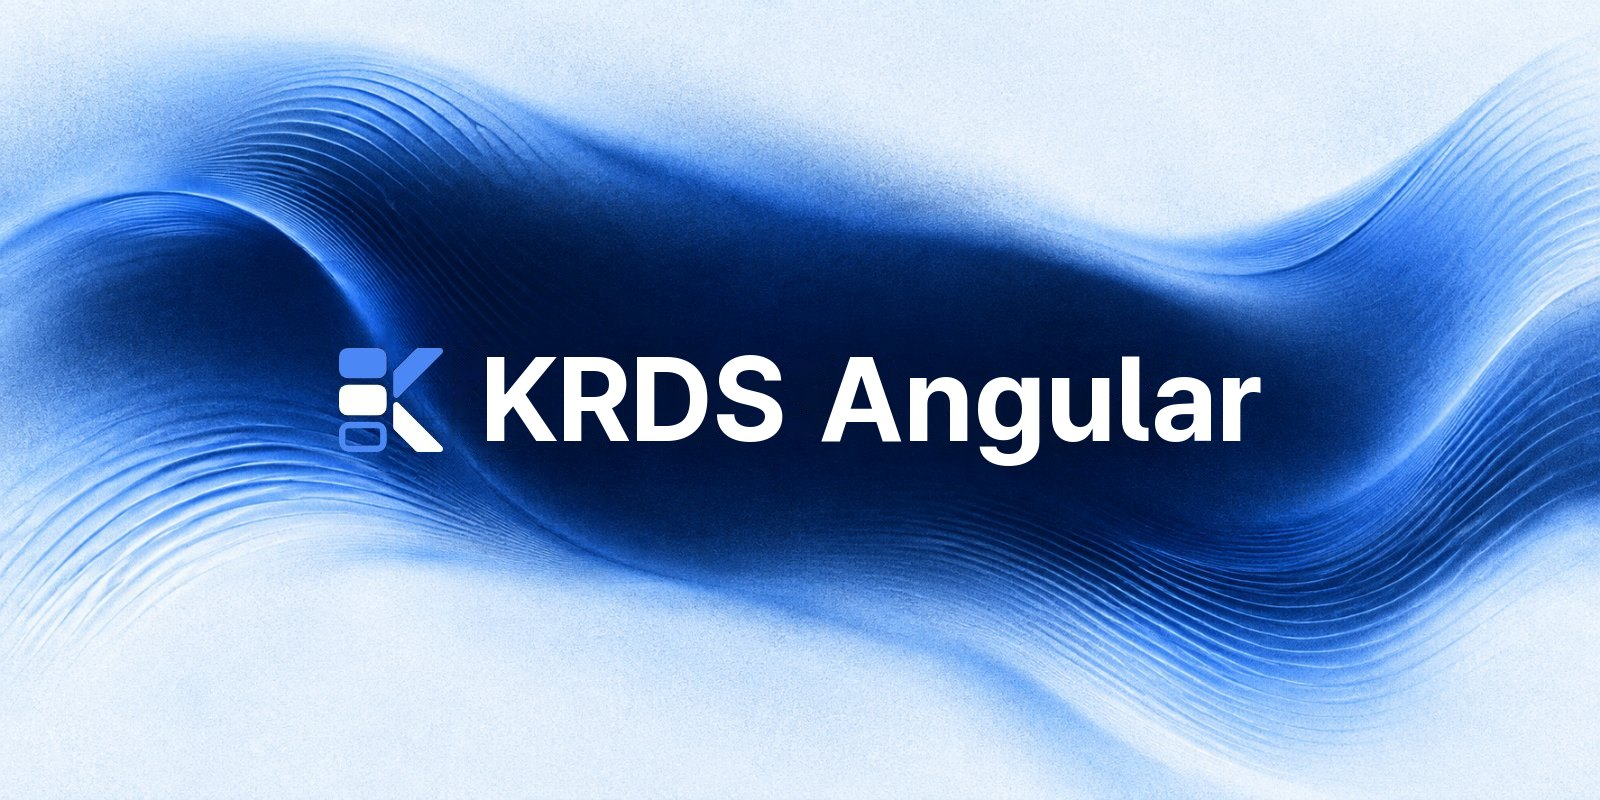
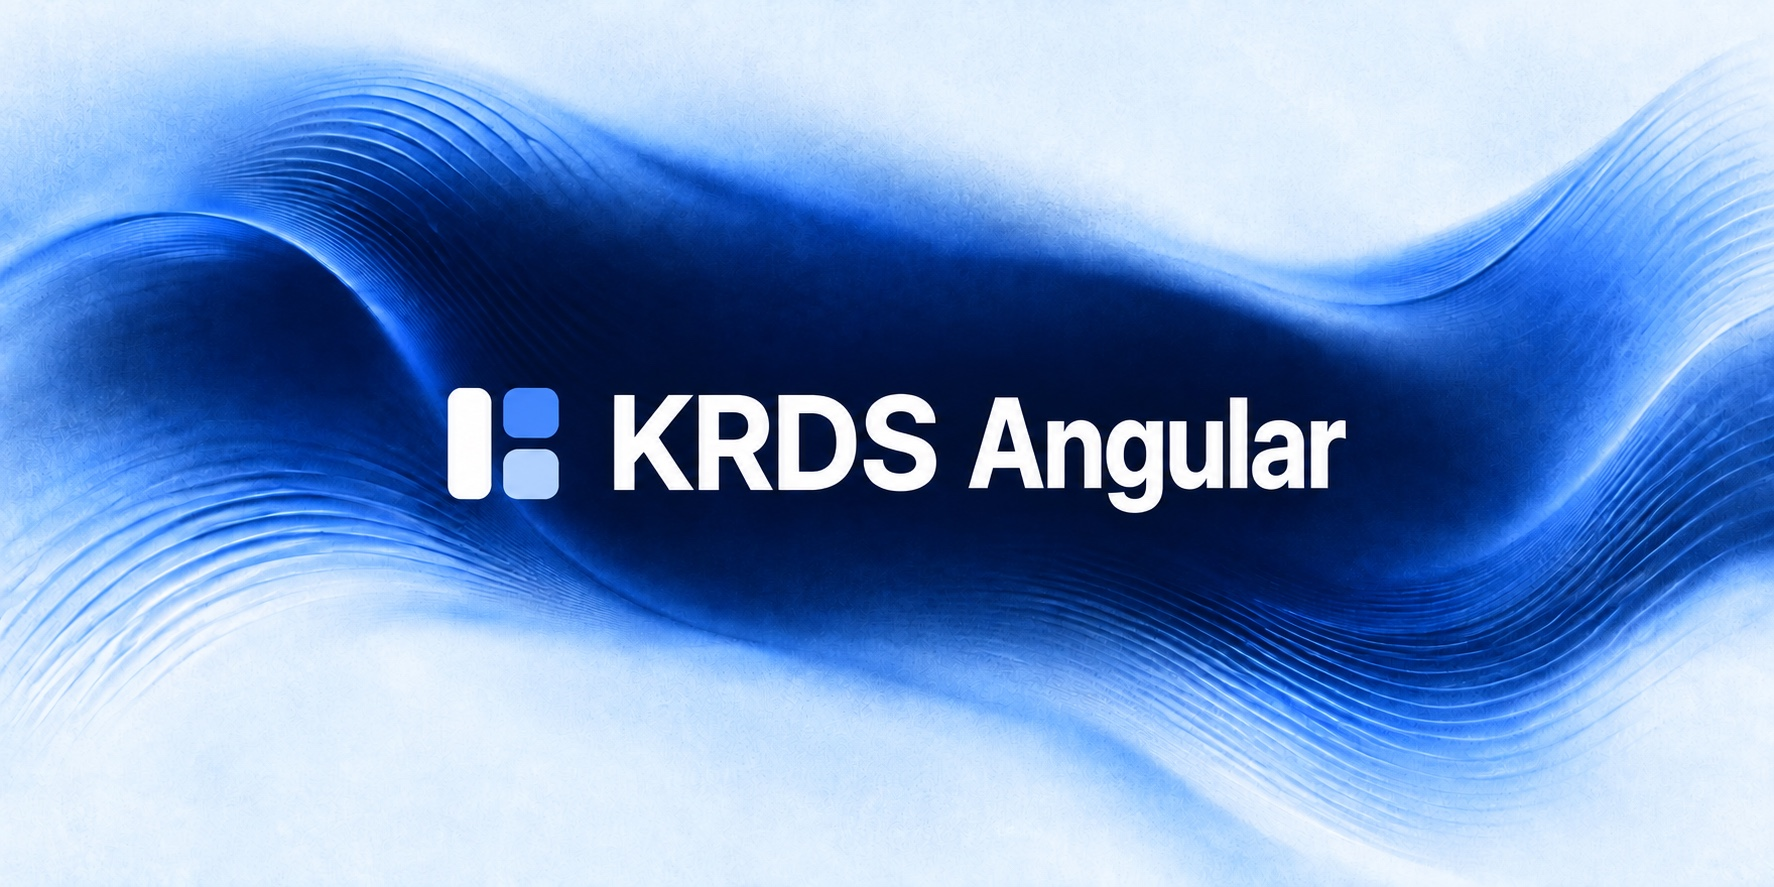
docs: Angular 배너 로고와 공공서비스 소개 개선

diff --git a/README.md b/README.md
@@ -27,7 +27,7 @@
 
 ## KRDS Angular: 대한민국 정부 디자인 시스템을 Angular로
 
-[KRDS(대한민국 정부 디자인 시스템)](https://www.krds.go.kr/html/site/index.html)를 Angular + TypeScript로 구현한 컴포넌트 라이브러리입니다. 공공 웹서비스에서 반복되는 폼, 내비게이션, 레이아웃, 피드백 UI를 KRDS 원본과 같은 모습과 동작으로 제공합니다.
+Angular 프로젝트에서 민원 신청, 본인 인증, 처리 현황 같은 공공서비스 화면을 [KRDS(대한민국 정부 디자인 시스템)](https://www.krds.go.kr/html/site/index.html) 기준으로 구성할 수 있습니다. 폼·내비게이션·레이아웃을 조합하고, 기존 Angular 폼에 KRDS의 스타일과 키보드 동작을 적용하세요. 기본 입력 요소를 사용하므로 `ngModel`과 reactive forms의 데이터 연결·유효성 검사를 함께 쓸 수 있습니다.
 
 - **KRDS 원본 그대로.** KRDS 원본 v1.1.0의 마크업·클래스·키보드 동작을 따르고, [KRDS Vue](https://github.com/Initializer-org/krds-vue)와 같은 스타일을 씁니다. [공식 컴포넌트 목록](https://www.krds.go.kr/html/site/component/component_summary.html)의 분류를 모두 옮겼습니다(스플래시 스크린은 각 플랫폼의 기본 기능 영역이라 제외).
 - **접근성 자동 검사.** 모든 컴포넌트 테스트와 문서 예제가 실제 브라우저에서 axe-core 접근성 검사를 실행하고, 위반이 있으면 CI가 실패합니다. 고대비 모드를 지원합니다.

diff --git a/docs/index.md b/docs/index.md
@@ -7,7 +7,7 @@ description: 'Initializer Team의 @krds.ui/angular 문서입니다. Angular 20·
 hero:
   name: KRDS Angular
   text: 대한민국 정부 디자인 시스템을 Angular로
-  tagline: KRDS 원본의 마크업과 스타일을 그대로 따르는 Angular + TypeScript 컴포넌트 라이브러리
+  tagline: 민원 신청부터 본인 인증까지, 공공서비스에 필요한 화면을 KRDS 기준으로 구성하세요. 폼·내비게이션·안내 요소를 조합하고, 기존 Angular 폼의 데이터 연결과 유효성 검사를 함께 사용할 수 있습니다.
   actions:
     - theme: brand
       text: 시작하기
